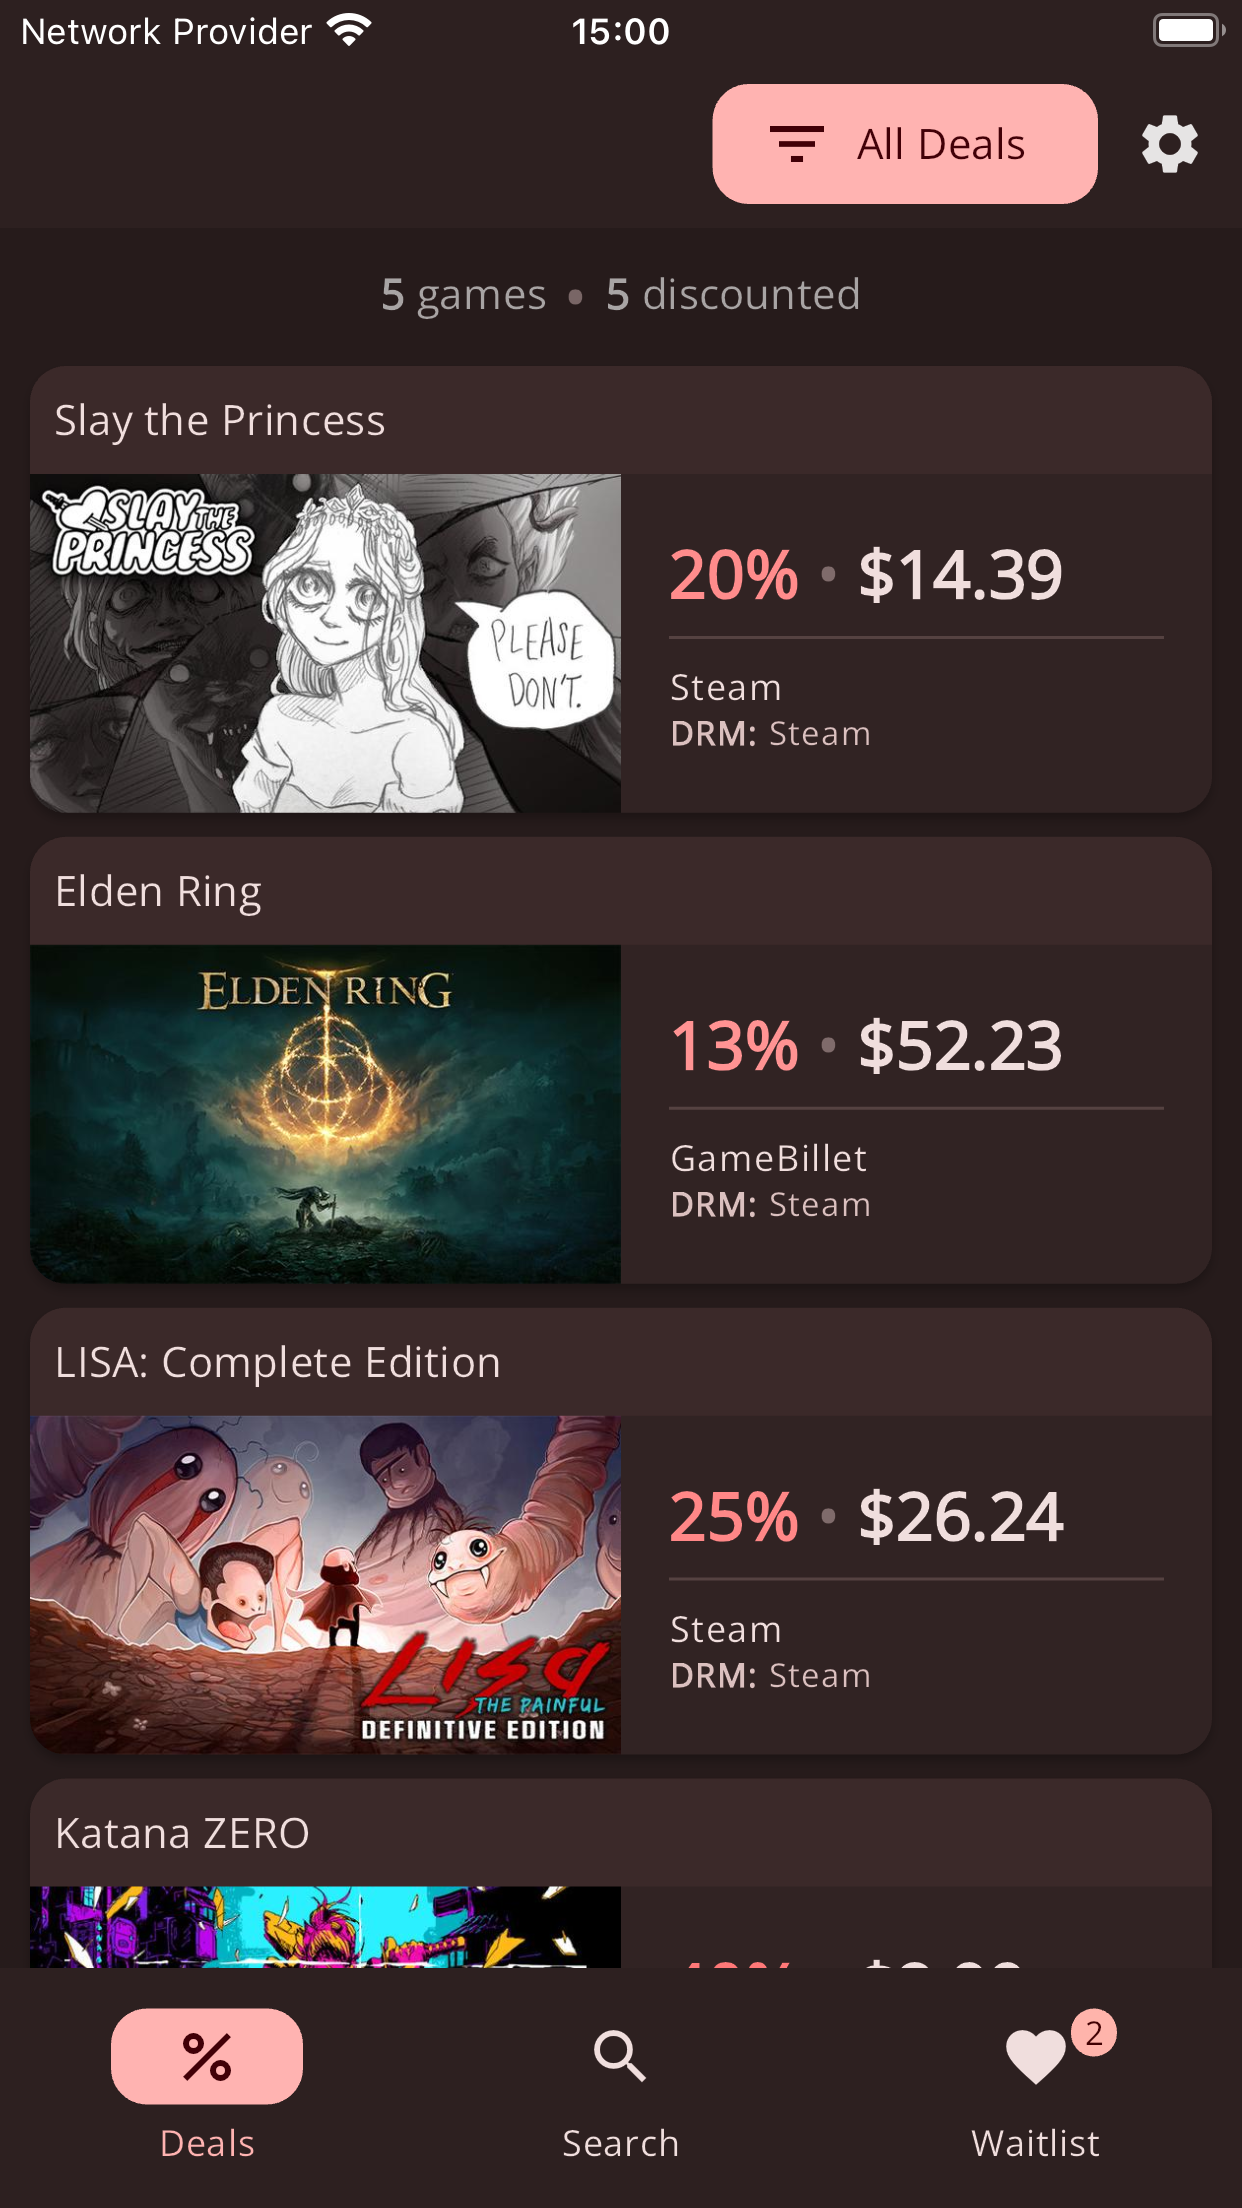
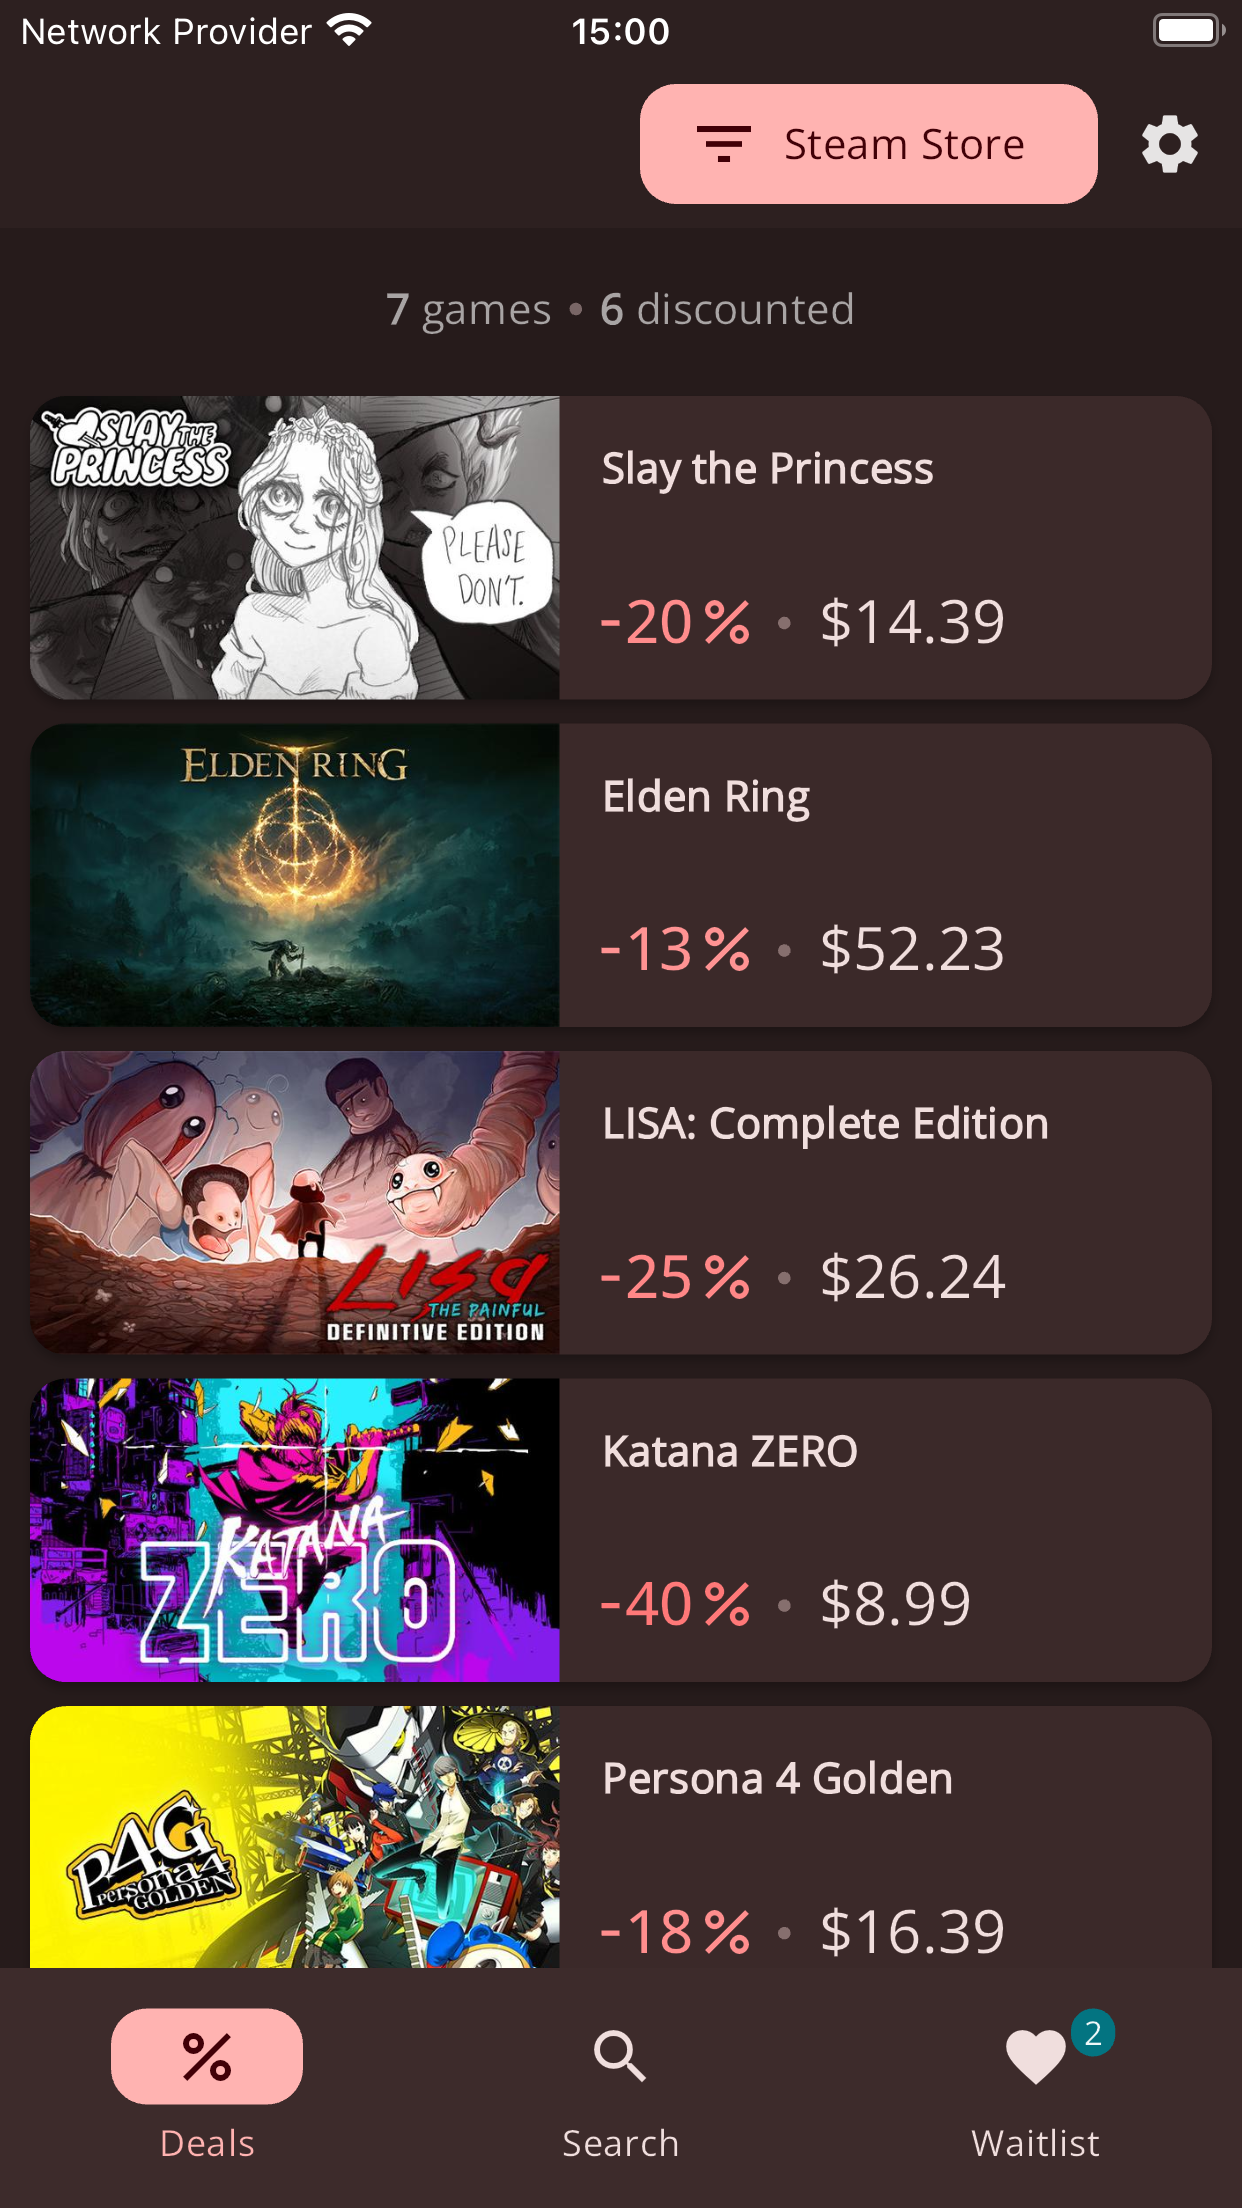
Update scheenshots

diff --git a/lib/settings/settings_repository.dart b/lib/settings/settings_repository.dart
@@ -77,6 +77,12 @@ class SettingsRepository {
       'observatory_waitlist_sorting_direction';
   final String PREF_STEAM_USERNAME = 'observatory_steam_username';
 
+  final DealCategory defaultCategory = DealCategory.steam_top_sellers;
+  final WaitlistSorting defaultWaitlistSorting = WaitlistSorting.discount_date;
+  final DealCardType defaultDealCardType = DealCardType.compact;
+  final WaitlistSortingDirection defaultWaitlistSortingDirection =
+      WaitlistSortingDirection.asc;
+
   static Future<void> init() async {
     await Hive.initFlutter();
 
@@ -193,10 +199,10 @@ class SettingsRepository {
   DealCategory getDealsTab() {
     final String category = settingsBox.get(
       PREF_DEALS_TAB,
-      defaultValue: DealCategory.all.name.toString(),
+      defaultValue: defaultCategory.name.toString(),
     );
 
-    return DealCategory.values.asNameMap()[category]!;
+    return DealCategory.values.asNameMap()[category] ?? defaultCategory;
   }
 
   Future<void> setDealsTab(DealCategory category) async {
@@ -241,10 +247,10 @@ class SettingsRepository {
   DealCardType getDealCardType() {
     final String type = settingsBox.get(
       PREF_DEAL_CARD_TYPE,
-      defaultValue: DealCardType.compact.name.toString(),
+      defaultValue: defaultDealCardType.name.toString(),
     );
 
-    return DealCardType.values.asNameMap()[type]!;
+    return DealCardType.values.asNameMap()[type] ?? defaultDealCardType;
   }
 
   Future<void> setDealCardType(DealCardType type) async {
@@ -257,10 +263,11 @@ class SettingsRepository {
   WaitlistSorting getWaitlistSorting() {
     final String sorting = settingsBox.get(
       PREF_WAITLIST_SORTING,
-      defaultValue: WaitlistSorting.date_added.name.toString(),
+      defaultValue: defaultWaitlistSorting.name.toString(),
     );
 
-    return WaitlistSorting.values.asNameMap()[sorting]!;
+    return WaitlistSorting.values.asNameMap()[sorting] ??
+        defaultWaitlistSorting;
   }
 
   Future<void> setWaitlistSorting(WaitlistSorting sorting) async {
@@ -297,10 +304,11 @@ class SettingsRepository {
   WaitlistSortingDirection getWaitlistSortingDirection() {
     final String? sorting = settingsBox.get(
       PREF_WAITLIST_SORTING_DIRECTION,
-      defaultValue: WaitlistSortingDirection.asc.name.toString(),
+      defaultValue: defaultWaitlistSortingDirection.name.toString(),
     );
 
-    return WaitlistSortingDirection.values.asNameMap()[sorting]!;
+    return WaitlistSortingDirection.values.asNameMap()[sorting] ??
+        defaultWaitlistSortingDirection;
   }
 
   Future<void> setWaitlistSortingDirection(
@@ -316,7 +324,11 @@ class SettingsRepository {
     return settingsBox.get(PREF_STEAM_USERNAME);
   }
 
-  Future<void> setSteamUsername(String username) async {
+  Future<void> setSteamUsername(String? username) async {
+    if (username == null) {
+      return;
+    }
+
     return settingsBox.put(
       PREF_STEAM_USERNAME,
       username,

diff --git a/lib/deal/deal_functions.dart b/lib/deal/deal_functions.dart
@@ -85,7 +85,7 @@ void addDealToWaitlist({
                 padding: const EdgeInsets.only(right: 16.0),
                 child: Icon(
                   Icons.remove_circle,
-                  color: context.themes.snackBar.contentTextStyle!.color,
+                  color: context.themes.snackBar.contentTextStyle?.color,
                 ),
               ),
               Flexible(
@@ -95,7 +95,7 @@ void addDealToWaitlist({
                       TextSpan(
                         text: deal.titleParsed,
                         style:
-                            context.themes.snackBar.contentTextStyle!.copyWith(
+                            context.themes.snackBar.contentTextStyle?.copyWith(
                           fontWeight: FontWeight.bold,
                         ),
                       ),
@@ -159,7 +159,7 @@ void removeDealFromWaitlist({
                 padding: const EdgeInsets.only(right: 16.0),
                 child: Icon(
                   Icons.check_circle,
-                  color: context.themes.snackBar.contentTextStyle!.color,
+                  color: context.themes.snackBar.contentTextStyle?.color,
                 ),
               ),
               Flexible(
@@ -169,7 +169,7 @@ void removeDealFromWaitlist({
                       TextSpan(
                         text: deal.titleParsed,
                         style:
-                            context.themes.snackBar.contentTextStyle!.copyWith(
+                            context.themes.snackBar.contentTextStyle?.copyWith(
                           fontWeight: FontWeight.bold,
                         ),
                       ),

diff --git a/lib/settings/steam_import/steam_import_page.dart b/lib/settings/steam_import/steam_import_page.dart
@@ -147,13 +147,15 @@ class SteamImportPage extends ConsumerWidget {
                     );
                   }
 
+                  final List<Deal> importDeals = steamImportState.deals ?? [];
+
                   return Column(
                     children: [
                       Expanded(
                         child: ListView.builder(
-                          itemCount: steamImportState.deals!.length,
+                          itemCount: importDeals.length,
                           itemBuilder: (context, index) {
-                            final Deal deal = steamImportState.deals![index];
+                            final Deal deal = importDeals[index];
 
                             return CheckboxListTile(
                               controlAffinity: ListTileControlAffinity.leading,
@@ -201,7 +203,7 @@ class ImportSuccessSnackBarContent extends StatelessWidget {
           const TextSpan(text: 'Successfully imported '),
           TextSpan(
             text: count,
-            style: context.themes.snackBar.contentTextStyle!.copyWith(
+            style: context.themes.snackBar.contentTextStyle?.copyWith(
               fontWeight: FontWeight.bold,
             ),
           ),

diff --git a/lib/settings/steam_import/ui/steam_import_form.dart b/lib/settings/steam_import/ui/steam_import_form.dart
@@ -76,7 +76,7 @@ class SteamImportForm extends ConsumerWidget {
                   : () async {
                       if (formKey.currentState?.saveAndValidate() ?? false) {
                         final String value =
-                            formKey.currentState!.fields['username']!.value;
+                            formKey.currentState?.fields['username']?.value;
 
                         if (value.trim().isNotEmpty) {
                           ref.read(steamImportProvider.notifier).fetch().then(
@@ -97,8 +97,8 @@ class SteamImportForm extends ConsumerWidget {
                                         TextSpan(
                                           text: result.length.toString(),
                                           style: context
-                                              .themes.snackBar.contentTextStyle!
-                                              .copyWith(
+                                              .themes.snackBar.contentTextStyle
+                                              ?.copyWith(
                                             fontWeight: FontWeight.bold,
                                           ),
                                         ),

diff --git a/lib/deal/ui/voucher_list_tile.dart b/lib/deal/ui/voucher_list_tile.dart
@@ -18,7 +18,8 @@ class VoucherListTile extends StatelessWidget {
       color: context.highElevatedCanvasColor,
       child: ListTile(
         onTap: () async {
-          await Clipboard.setData(ClipboardData(text: price.voucher!)).then(
+          await Clipboard.setData(ClipboardData(text: price.voucher ?? ''))
+              .then(
             (value) => ScaffoldMessenger.of(context).showSnackBar(
               SnackBar(
                 content: RichText(
@@ -31,7 +32,7 @@ class VoucherListTile extends StatelessWidget {
                       TextSpan(
                         text: price.voucher ?? 'None',
                         style:
-                            context.themes.snackBar.contentTextStyle!.copyWith(
+                            context.themes.snackBar.contentTextStyle?.copyWith(
                           fontWeight: FontWeight.bold,
                         ),
                       ),

diff --git a/test_driver/screenshot_test.dart b/test_driver/screenshot_test.dart
@@ -39,7 +39,12 @@ void main() async {
 
     await takeScreenshot('deals_page_filters');
 
-    await driver.tap(find.byValueKey('deals_filter_steam_top_sellers'));
+    await driver.scroll(
+      find.byValueKey('deals_filter_all'),
+      0,
+      1000,
+      const Duration(milliseconds: 200),
+    );
   });
 
   test('Waitlist Page', () async {
@@ -47,6 +52,17 @@ void main() async {
     await driver.waitFor(find.byValueKey('waitlist_scroll_view'));
 
     await takeScreenshot('waitlist_page');
+
+    await driver.tap(find.byValueKey('navigation_waitlist'));
+
+    await takeScreenshot('waitlist_page_filters');
+
+    await driver.scroll(
+      find.byValueKey('waitlist_sorting_title'),
+      0,
+      1000,
+      const Duration(milliseconds: 200),
+    );
   });
 
   test('Search Page', () async {

diff --git a/lib/deal/ui/price_listview.dart b/lib/deal/ui/price_listview.dart
@@ -14,7 +14,9 @@ class PriceListView extends ConsumerWidget {
 
   @override
   Widget build(BuildContext context, WidgetRef ref) {
-    if (prices == null) {
+    final List<Price> allPrices = prices ?? [];
+
+    if (allPrices.isEmpty) {
       return SliverPadding(
         padding: const EdgeInsets.only(bottom: 16.0),
         sliver: SliverList(
@@ -40,10 +42,10 @@ class PriceListView extends ConsumerWidget {
         delegate: SliverChildBuilderDelegate(
           (context, index) {
             return PriceCard(
-              price: prices![index],
+              price: allPrices[index],
             );
           },
-          childCount: prices!.length,
+          childCount: allPrices.length,
         ),
       ),
     );

diff --git a/lib/deal/ui/links_tile.dart b/lib/deal/ui/links_tile.dart
@@ -32,12 +32,14 @@ class LinksTile extends StatelessWidget {
         children: [
           Builder(
             builder: (context) {
-              if (deal.steamPrice != null) {
+              final Uri? uri = Uri.tryParse(deal.steamPrice?.url ?? '');
+
+              if (uri != null) {
                 return SearchOnTile(
                   deal: deal,
                   title: 'Open on Steam',
                   leading: FontAwesomeIcons.steam,
-                  link: Uri.parse(deal.steamPrice!.url),
+                  link: uri,
                 );
               }
 

diff --git a/lib/deals/ui/deals_filter.dart b/lib/deals/ui/deals_filter.dart
@@ -44,7 +44,7 @@ class DealsFilter extends ConsumerWidget {
                 final DealCategory category = DealCategory.values[index];
 
                 return ListTile(
-                  key: Key('deals_filter_$category'),
+                  key: ValueKey('deals_filter_${category.name}'),
                   selectedTileColor: context.colors.scheme.primaryContainer,
                   selectedColor: context.colors.scheme.onPrimaryContainer,
                   selected: DealCategory.values[index] == dealsTab,

diff --git a/lib/waitlist/ui/waitlist_sorting_page.dart b/lib/waitlist/ui/waitlist_sorting_page.dart
@@ -50,6 +50,7 @@ class WaitlistSortingPage extends ConsumerWidget {
                 final WaitlistSorting sorting = WaitlistSorting.values[index];
 
                 return ListTile(
+                  key: ValueKey('waitlist_sorting_${sorting.name}'),
                   contentPadding: const EdgeInsets.fromLTRB(16, 0, 12, 0),
                   selectedTileColor: context.colors.scheme.primaryContainer,
                   selectedColor: context.colors.scheme.onPrimaryContainer,

diff --git a/lib/settings/steam_import/ui/unfinished_import_dialog.dart b/lib/settings/steam_import/ui/unfinished_import_dialog.dart
@@ -43,7 +43,7 @@ class UnfinishedImportDialog extends ConsumerWidget {
                       TextSpan(
                         text: result.length.toString(),
                         style:
-                            context.themes.snackBar.contentTextStyle!.copyWith(
+                            context.themes.snackBar.contentTextStyle?.copyWith(
                           fontWeight: FontWeight.bold,
                         ),
                       ),

diff --git a/lib/waitlist/ui/steam_import_list_tile.dart b/lib/waitlist/ui/steam_import_list_tile.dart
@@ -72,7 +72,7 @@ class SteamImportListTile extends ConsumerWidget {
                             child: Icon(
                               Icons.error,
                               color: context
-                                  .themes.snackBar.contentTextStyle!.color,
+                                  .themes.snackBar.contentTextStyle?.color,
                             ),
                           ),
                           const Expanded(
